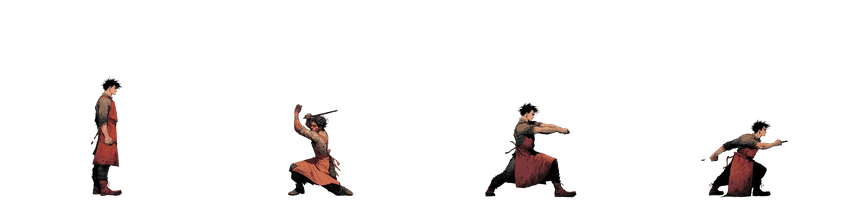
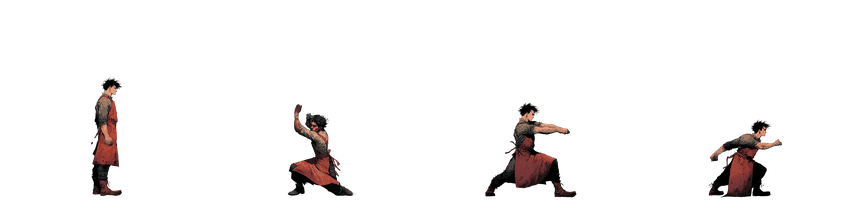
Vraie DA : couleurs de K2 recalées sur K1 et K3, effacement du bâton élargi
Claude-Session: https://claude.ai/code/session_011WbKxCpjrKesw3qGNEFtUB

diff --git a/tools/art/art.py b/tools/art/art.py
@@ -341,6 +341,28 @@ def _fill_masked(arr, mask, iters=300):
     return out
 
 
+def match_colors(im, refs):
+    """Recale les couleurs d'une pose sur d'autres (histogrammes en Lab, personnage seulement) :
+    une image MJ partie dans une autre teinte rejoint la palette des autres."""
+    from skimage import color, exposure
+    rgba = np.asarray(im).astype(np.float32) / 255.0
+    fg = rgba[..., 3] > 0.5
+    lab = color.rgb2lab(rgba[..., :3])
+    ref_px = []
+    for r in refs:
+        rr = np.asarray(r.convert("RGBA")).astype(np.float32) / 255.0
+        ref_px.append(color.rgb2lab(rr[..., :3])[rr[..., 3] > 0.5])
+    ref_px = np.concatenate(ref_px)
+    src = lab[fg]
+    out = np.empty_like(src)
+    for c in range(3):
+        out[:, c] = exposure.match_histograms(src[:, c], ref_px[:, c])
+    lab[fg] = out
+    rgb = np.clip(color.lab2rgb(lab), 0, 1)
+    res = np.dstack([rgb, rgba[..., 3:]]) * 255.0
+    return Image.fromarray(res.astype(np.uint8), "RGBA")
+
+
 def cmd_poses(a):
     """Poses clés d'une attaque (images fixes Midjourney) -> planche alignée + main et angle de l'arme.
     Le bâton (ou l'arme) dessiné par MJ est effacé : le jeu pose l'arme en couche à part."""
@@ -376,6 +398,9 @@ def cmd_poses(a):
         al = arr[..., 3]
         al[mask] = np.where(al[mask] > 160, 255, 0)
         im = Image.fromarray(np.clip(arr, 0, 255).astype(np.uint8), "RGBA")
+        if ps.get("teinte_ref"):
+            im = match_colors(im, [Image.open(os.path.join(a.cache, os.path.splitext(r)[0] + "-detoure.png"))
+                                   for r in ps["teinte_ref"]])
         k = s_ref * spec["tete_ref"] / ps["tete"]
         im = im.resize((round(im.width * k), round(im.height * k)), Image.LANCZOS)
         ox = foot[0] - ps["appui"][0] * k
